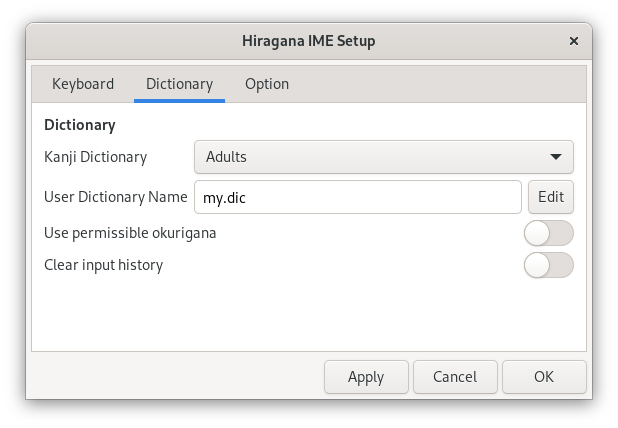
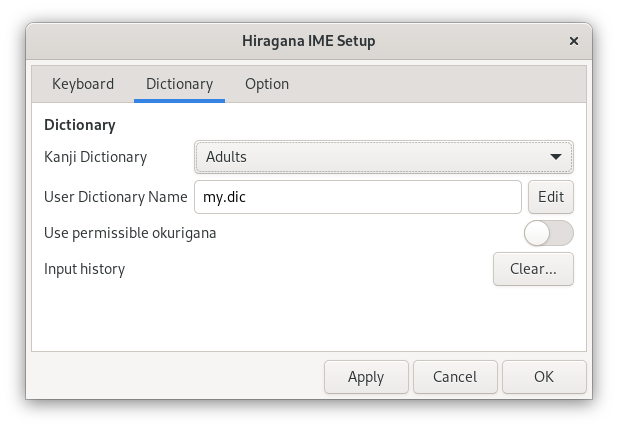
docs: Update "Input history" section
docs/en/ibus-setup-hiragana_1.png
docs/en/ibus-setup-hiragana_2.png
docs/en/ibus-setup-hiragana_3.png
docs/en/ibus-setup-hiragana_4.png
docs/en/meson.build
docs/en/settings.html
docs/ibus-setup-hiragana_1.png
docs/ibus-setup-hiragana_2.png
docs/ibus-setup-hiragana_3.png
docs/ibus-setup-hiragana_4.png
docs/meson.build
docs/settings.html
docs_md/en/settings.md
docs_md/settings.md

Changed region(s): [[0.8301, 0.5771, 0.9223, 0.6682], [0.0615, 0.6075, 0.2767, 0.6379], [0.3382, 0.4556, 0.3997, 0.486]]

diff --git a/docs/settings.html b/docs/settings.html
@@ -254,8 +254,9 @@ function shrinkToc() {
 </tbody>
 </table>
 <p>&#x3000;「<ruby>行<rp>(</rp><rt>い</rt><rp>)</rp></ruby>って」と「<ruby>行<rp>(</rp><rt>おこな</rt><rp>)</rp></ruby>って」は<ruby>本則<rp>(</rp><rt>ほんそく</rt><rp>)</rp></ruby>のままではふりがながないと<ruby>区別<rp>(</rp><rt>くべつ</rt><rp>)</rp></ruby>ができません。ぎゃくに、<ruby>漢字<rp>(</rp><rt>かんじ</rt><rp>)</rp></ruby>をよくしっているひとが「<ruby>落<rp>(</rp><rt>おと</rt><rp>)</rp></ruby>す」をよみあやまることはありません。<ruby>和語<rp>(</rp><rt>わご</rt><rp>)</rp></ruby>（ほんらいの<ruby>日本語<rp>(</rp><rt>にほんご</rt><rp>)</rp></ruby>）に<ruby>漢字<rp>(</rp><rt>かんじ</rt><rp>)</rp></ruby>をあててかくのは、なかなかむずかしいことです。この<ruby>手<rp>(</rp><rt>て</rt><rp>)</rp></ruby>びきでは、<ruby>和語<rp>(</rp><rt>わご</rt><rp>)</rp></ruby>はなるべくひらがなでかくようにしています。</p>
-<h3><ruby>入力<rp>(</rp><rt>にゅうりょく</rt><rp>)</rp></ruby><ruby>履歴<rp>(</rp><rt>りれき</rt><rp>)</rp></ruby>をクリアする</h3>
-<p>&#x3000;<ruby>同音<rp>(</rp><rt>どうおん</rt><rp>)</rp></ruby><ruby>異義<rp>(</rp><rt>いぎ</rt><rp>)</rp></ruby><ruby>語<rp>(</rp><rt>ご</rt><rp>)</rp></ruby>やよみを<ruby>短縮<rp>(</rp><rt>たんしゅく</rt><rp>)</rp></ruby>したことばの<ruby>変換<rp>(</rp><rt>へんかん</rt><rp>)</rp></ruby><ruby>中<rp>(</rp><rt>ちゅう</rt><rp>)</rp></ruby>は、よくつかうものが<ruby>一覧<rp>(</rp><rt>いちらん</rt><rp>)</rp></ruby>のはじめのほうにきます。これを<ruby>初期<rp>(</rp><rt>しょき</rt><rp>)</rp></ruby><ruby>状態<rp>(</rp><rt>じょうたい</rt><rp>)</rp></ruby>にもどしたいときは、[<ruby>入力<rp>(</rp><rt>にゅうりょく</rt><rp>)</rp></ruby><ruby>履歴<rp>(</rp><rt>りれき</rt><rp>)</rp></ruby>をクリアする]スイッチをオンにして[<ruby>適用<rp>(</rp><rt>てきよう</rt><rp>)</rp></ruby>]ボタンをおします。</p>
+<h3><ruby>入力<rp>(</rp><rt>にゅうりょく</rt><rp>)</rp></ruby><ruby>履歴<rp>(</rp><rt>りれき</rt><rp>)</rp></ruby></h3>
+<p>&#x3000;<ruby>変換<rp>(</rp><rt>へんかん</rt><rp>)</rp></ruby><ruby>候補<rp>(</rp><rt>こうほ</rt><rp>)</rp></ruby>ウィンドウでは、よくつかう<ruby>同音<rp>(</rp><rt>どうおん</rt><rp>)</rp></ruby><ruby>異義<rp>(</rp><rt>いぎ</rt><rp>)</rp></ruby><ruby>語<rp>(</rp><rt>ご</rt><rp>)</rp></ruby>やよみを<ruby>短縮<rp>(</rp><rt>たんしゅく</rt><rp>)</rp></ruby>したことばが<ruby>一覧<rp>(</rp><rt>いちらん</rt><rp>)</rp></ruby>のはじめのほうにきます。これを<ruby>初期<rp>(</rp><rt>しょき</rt><rp>)</rp></ruby><ruby>状態<rp>(</rp><rt>じょうたい</rt><rp>)</rp></ruby>にもどしたいときは、[クリア...]をクリックします。そして、つぎのメッセージボックスが<ruby>表示<rp>(</rp><rt>ひょうじ</rt><rp>)</rp></ruby>されたら、[OK]ボタンをおします。</p>
+<p><img alt="「ひらがなIMEの設定」ウィンドウ" src="ibus-setup-hiragana_4.png"></p>
 <h2 id="option">オプション タブ</h2>
 <p>&#x3000;オプション タブでは、<ruby>入力<rp>(</rp><rt>にゅうりょく</rt><rp>)</rp></ruby>を<ruby>補助<rp>(</rp><rt>ほじょ</rt><rp>)</rp></ruby>する<ruby>機能<rp>(</rp><rt>きのう</rt><rp>)</rp></ruby>の<ruby>設定<rp>(</rp><rt>せってい</rt><rp>)</rp></ruby>ができます。</p>
 <p><img alt="「ひらがなIMEの設定」ウィンドウ" src="ibus-setup-hiragana_3.png"></p>

diff --git a/docs/en/settings.html b/docs/en/settings.html
@@ -296,9 +296,11 @@ Turn on the <strong>Use permissible okurigana</strong> switch to use permissible
 <p>Understanding the okurigana rules can be quite challenging.
 Without furigana, '<ruby>行<rp>(</rp><rt>おこな</rt><rp>)</rp></ruby>って' and '<ruby>行<rp>(</rp><rt>い</rt><rp>)</rp></ruby>って' cannot be distinguished by the main rules alone. On the other hand, people who are knowledgeable about kanji do not struggle with reading  '<ruby>落<rp>(</rp><rt>おと</rt><rp>)</rp></ruby>す'.
 The public notice does not mandate using kanji; it simply provides guidelines on how to add or remove okurigana when using kanji. In the Japanese version of this guide, most Japanese words are written only in hiragana.</p>
-<h3>Clear input history</h3>
-<p>Frequently used homonyms and words with shortened readings will appear at the beginning of the candidate list.
-To reset the orders to the initial state, turn on the <strong>Clear input history</strong> switch and click <strong>Apply</strong>.</p>
+<h3>Input history</h3>
+<p>In the conversion candidate window, frequently used words will appear at the top of the list.
+To reset all orders to their initial state, click the <strong>Clear…</strong> button.
+Then, click <strong>OK</strong> when the following message box appears.</p>
+<p><img alt="Hiragana IME Setup Window" src="ibus-setup-hiragana_4.png"></p>
 <h2 id="option">Option Tab</h2>
 <p>You can customize the input assistance feature.</p>
 <p><img alt="「Hiragana IME Setup」Window" src="ibus-setup-hiragana_3.png"></p>

diff --git a/docs_md/settings.md b/docs_md/settings.md
@@ -105,10 +105,13 @@
 和語わご（ほんらいの日本語にほんご）に漢字かんじをあててかくのは、なかなかむずかしいことです。
 この手てびきでは、和語わごはなるべくひらがなでかくようにしています。
 
-### 入力にゅうりょく履歴りれきをクリアする
+### 入力にゅうりょく履歴りれき
 
-　同音どうおん異義いぎ語ごやよみを短縮たんしゅくしたことばの変換へんかん中ちゅうは、よくつかうものが一覧いちらんのはじめのほうにきます。
-これを初期しょき状態じょうたいにもどしたいときは、[入力にゅうりょく履歴りれきをクリアする]スイッチをオンにして[適用てきよう]ボタンをおします。
+　変換へんかん候補こうほウィンドウでは、よくつかう同音どうおん異義いぎ語ごやよみを短縮たんしゅくしたことばが一覧いちらんのはじめのほうにきます。
+これを初期しょき状態じょうたいにもどしたいときは、[クリア...]をクリックします。
+そして、つぎのメッセージボックスが表示ひょうじされたら、[OK]ボタンをおします。
+
+![「ひらがなIMEの設定」ウィンドウ](ibus-setup-hiragana_4.png)
 
 ## オプション タブ {: #option}
 

diff --git a/docs_md/en/settings.md b/docs_md/en/settings.md
@@ -117,10 +117,13 @@ Understanding the okurigana rules can be quite challenging.
 Without furigana, '<ruby>行<rp>(</rp><rt>おこな</rt><rp>)</rp></ruby>って' and '<ruby>行<rp>(</rp><rt>い</rt><rp>)</rp></ruby>って' cannot be distinguished by the main rules alone. On the other hand, people who are knowledgeable about kanji do not struggle with reading  '<ruby>落<rp>(</rp><rt>おと</rt><rp>)</rp></ruby>す'.
 The public notice does not mandate using kanji; it simply provides guidelines on how to add or remove okurigana when using kanji. In the Japanese version of this guide, most Japanese words are written only in hiragana.
 
-### Clear input history
+### Input history
 
-Frequently used homonyms and words with shortened readings will appear at the beginning of the candidate list.
-To reset the orders to the initial state, turn on the **Clear input history** switch and click **Apply**.
+In the conversion candidate window, frequently used words will appear at the top of the list.
+To reset all orders to their initial state, click the **Clear…** button.
+Then, click **OK** when the following message box appears.
+
+![Hiragana IME Setup Window](ibus-setup-hiragana_4.png)
 
 ## Option Tab {: #option}
 
